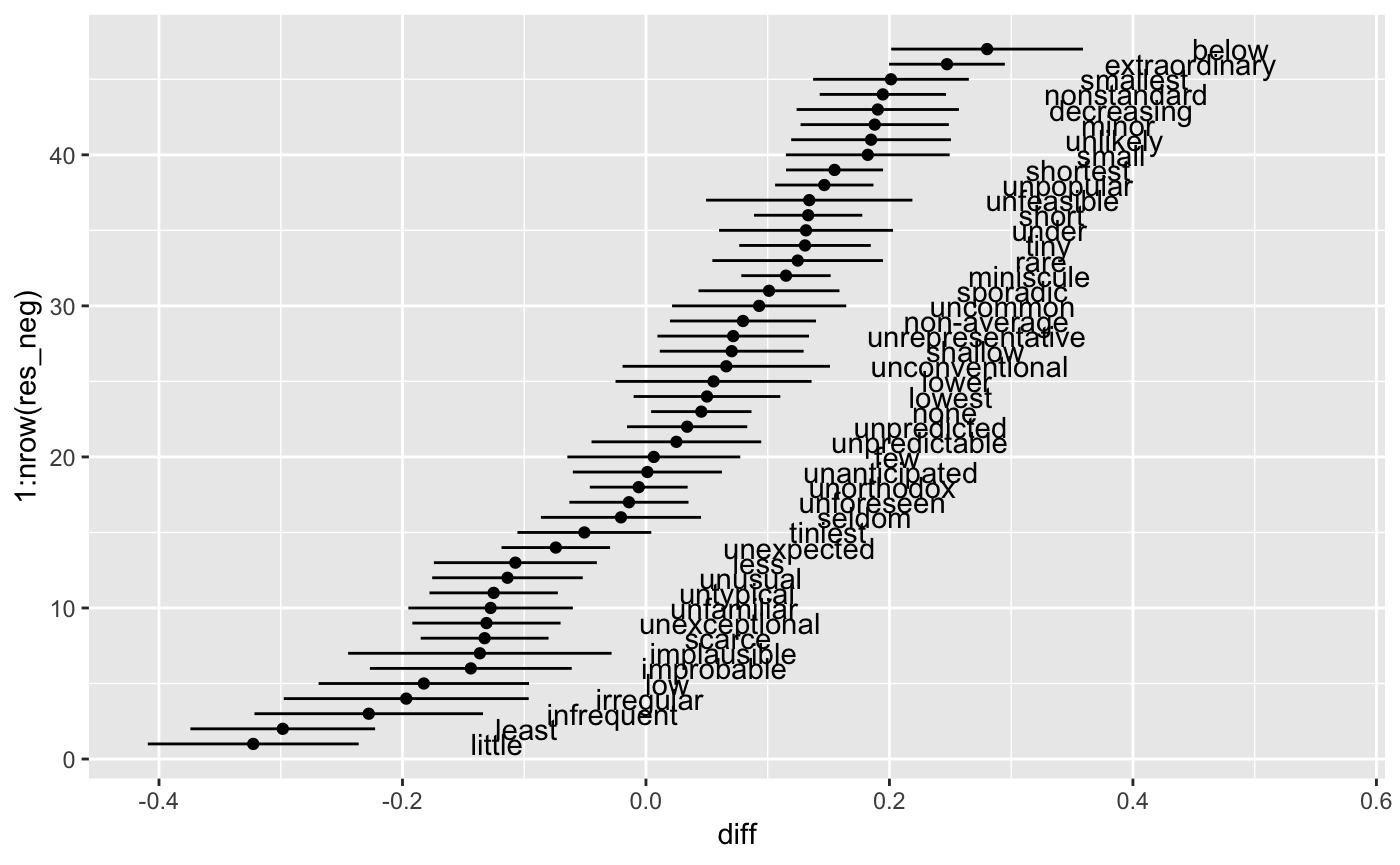
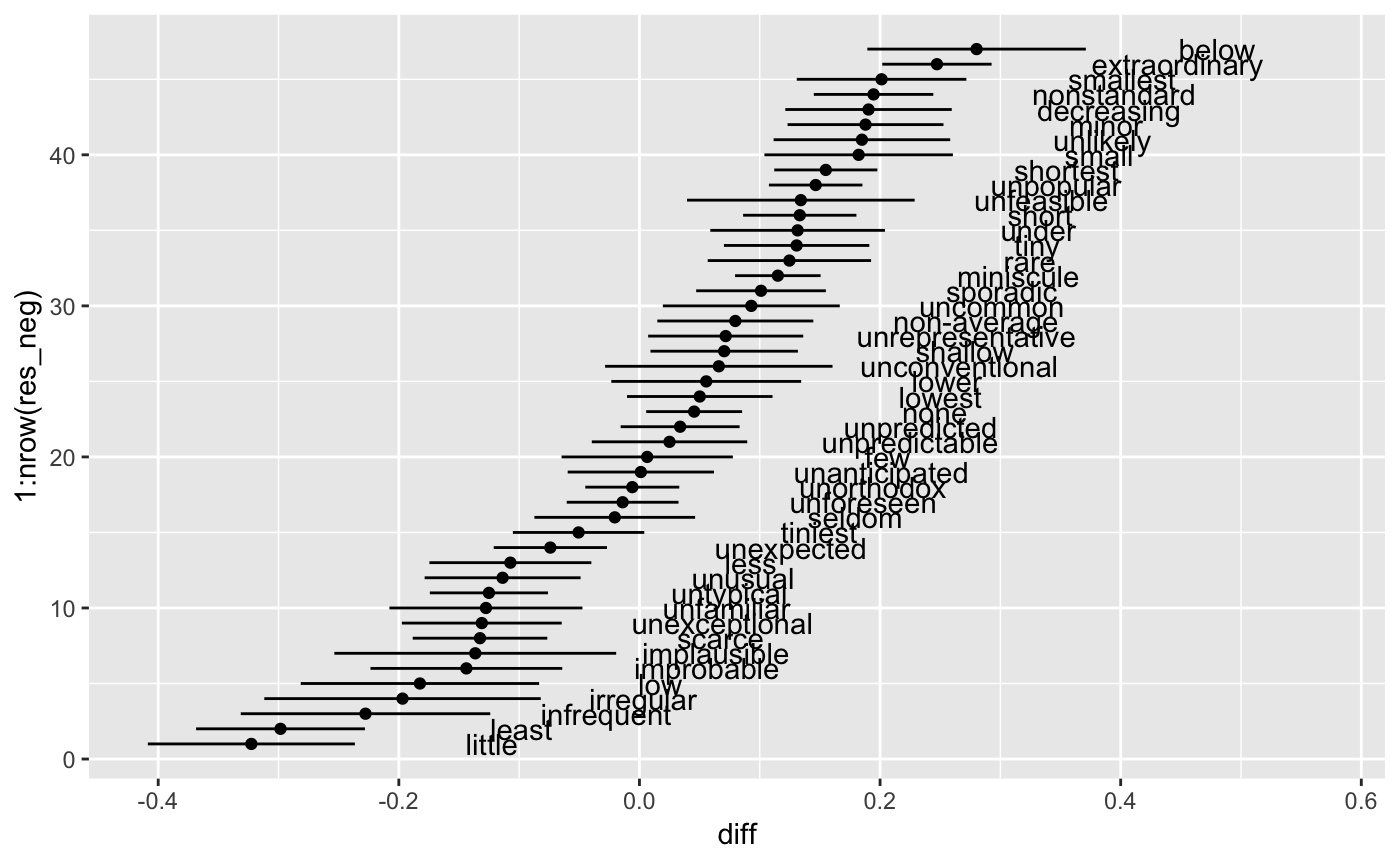
Full citation in.

diff --git a/docs/articles/replication_replication.html b/docs/articles/replication_replication.html
@@ -219,7 +219,7 @@ vecs &lt;-<span class="st"> </span><span class="kw"><a href="../reference/cbn_ge
 <span class="kw"><a href="../reference/weat_perm.html">weat_perm</a></span>(its, vecs, <span class="dt">x_name =</span> <span class="st">"Math"</span>, <span class="dt">y_name =</span> <span class="st">"Arts"</span>,
            <span class="dt">a_name =</span> <span class="st">"MaleTerms"</span>, <span class="dt">b_name =</span> <span class="st">"FemaleTerms"</span>, <span class="dv">1000</span>)
 <span class="co">#&gt;      S_xyab        d p_value</span>
-<span class="co">#&gt; 1 0.1989226 1.055015   0.023</span></code></pre></div>
+<span class="co">#&gt; 1 0.1989226 1.055015   0.011</span></code></pre></div>
 </div>
 <div id="science-vs-arts" class="section level3">
 <h3 class="hasAnchor">
@@ -236,7 +236,7 @@ vecs &lt;-<span class="st"> </span><span class="kw"><a href="../reference/cbn_ge
 <span class="kw"><a href="../reference/weat_perm.html">weat_perm</a></span>(its, vecs, <span class="dt">x_name =</span> <span class="st">"Science"</span>, <span class="dt">y_name =</span> <span class="st">"Arts"</span>, 
            <span class="dt">a_name =</span> <span class="st">"MaleTerms"</span>, <span class="dt">b_name =</span> <span class="st">"FemaleTerms"</span>, <span class="dv">1000</span>)
 <span class="co">#&gt;     S_xyab        d p_value</span>
-<span class="co">#&gt; 1 0.345604 1.237453   0.003</span></code></pre></div>
+<span class="co">#&gt; 1 0.345604 1.237453   0.004</span></code></pre></div>
 </div>
 <div id="mental-vs-physical-disease" class="section level3">
 <h3 class="hasAnchor">
@@ -253,7 +253,7 @@ vecs &lt;-<span class="st"> </span><span class="kw"><a href="../reference/cbn_ge
 <span class="kw"><a href="../reference/weat_perm.html">weat_perm</a></span>(its, vecs, <span class="dt">x_name =</span> <span class="st">"MentalDisease"</span>, <span class="dt">y_name =</span> <span class="st">"PhysicalDisease"</span>, 
           <span class="dt">a_name =</span> <span class="st">"Temporary"</span>, <span class="dt">b_name =</span> <span class="st">"Permanent"</span>, <span class="dv">1000</span>)
 <span class="co">#&gt;      S_xyab        d p_value</span>
-<span class="co">#&gt; 1 0.5051217 1.382755   0.001</span></code></pre></div>
+<span class="co">#&gt; 1 0.5051217 1.382755   0.002</span></code></pre></div>
 </div>
 <div id="mental-vs-physical-disease-1" class="section level3">
 <h3 class="hasAnchor">
@@ -270,7 +270,7 @@ vecs &lt;-<span class="st"> </span><span class="kw"><a href="../reference/cbn_ge
 <span class="kw"><a href="../reference/weat_perm.html">weat_perm</a></span>(its, vecs, <span class="dt">x_name =</span> <span class="st">"MentalDisease"</span>, <span class="dt">y_name =</span> <span class="st">"PhysicalDisease"</span>, 
           <span class="dt">a_name =</span> <span class="st">"Temporary"</span>, <span class="dt">b_name =</span> <span class="st">"Permanent"</span>, <span class="dv">1000</span>)
 <span class="co">#&gt;      S_xyab        d p_value</span>
-<span class="co">#&gt; 1 0.5051217 1.382755   0.005</span></code></pre></div>
+<span class="co">#&gt; 1 0.5051217 1.382755   0.002</span></code></pre></div>
 </div>
 <div id="young-vs-old-peoples-names" class="section level3">
 <h3 class="hasAnchor">
@@ -287,7 +287,7 @@ vecs &lt;-<span class="st"> </span><span class="kw"><a href="../reference/cbn_ge
 <span class="kw"><a href="../reference/weat_perm.html">weat_perm</a></span>(its, vecs, <span class="dt">x_name =</span> <span class="st">"YoungNames"</span>, <span class="dt">y_name =</span> <span class="st">"OldNames"</span>, 
           <span class="dt">a_name =</span> <span class="st">"Pleasant"</span>, <span class="dt">b_name =</span> <span class="st">"Unpleasant"</span>, <span class="dv">1000</span>)
 <span class="co">#&gt;      S_xyab        d p_value</span>
-<span class="co">#&gt; 1 0.3808673 1.212891   0.006</span></code></pre></div>
+<span class="co">#&gt; 1 0.3808673 1.212891   0.008</span></code></pre></div>
 </div>
 </div>
 <div id="wefat-figure-1" class="section level2">

diff --git a/docs/articles/alternative_statistics.html b/docs/articles/alternative_statistics.html
@@ -119,8 +119,8 @@ its_vecs &lt;-<span class="st"> </span><span class="kw"><a href="../reference/cb
                  <span class="dt">a_name =</span> <span class="st">"Pleasant"</span>, <span class="dt">b_name =</span> <span class="st">"Unpleasant"</span>,
                  <span class="dt">se.calc =</span> <span class="st">"quantile"</span>)
 res
-<span class="co">#&gt;        diff       lwr       upr    median</span>
-<span class="co">#&gt; 1 0.1547512 0.1016231 0.1966195 0.1485927</span></code></pre></div>
+<span class="co">#&gt;        diff        lwr       upr    median</span>
+<span class="co">#&gt; 1 0.1547512 0.09904213 0.2164269 0.1460651</span></code></pre></div>
 <p>Apparently flowers are more pleasant than insects.</p>
 </div>
 <div id="replicating-wefat" class="section level2">
@@ -135,12 +135,12 @@ its_vecs &lt;-<span class="st"> </span><span class="kw"><a href="../reference/cb
                   <span class="dt">se.calc =</span> <span class="st">"quantile"</span>)
 <span class="kw">head</span>(res)
 <span class="co">#&gt;        Careers       diff        lwr         upr     median</span>
-<span class="co">#&gt; 1        nurse -0.1766406 -0.2321746 -0.12262488 -0.1699421</span>
-<span class="co">#&gt; 2 receptionist -0.1369632 -0.1771082 -0.08764670 -0.1330653</span>
-<span class="co">#&gt; 3    hygienist -0.1182356 -0.1491636 -0.08004055 -0.1164189</span>
-<span class="co">#&gt; 4    librarian -0.1158335 -0.1422554 -0.07809907 -0.1140293</span>
-<span class="co">#&gt; 5 nutritionist -0.1115838 -0.1562356 -0.05603441 -0.1110424</span>
-<span class="co">#&gt; 6    therapist -0.1042064 -0.1446527 -0.05594589 -0.1033222</span></code></pre></div>
+<span class="co">#&gt; 1        nurse -0.1766406 -0.2362785 -0.10485537 -0.1714612</span>
+<span class="co">#&gt; 2 receptionist -0.1369632 -0.1807432 -0.08080623 -0.1328347</span>
+<span class="co">#&gt; 3    hygienist -0.1182356 -0.1511249 -0.07728667 -0.1147665</span>
+<span class="co">#&gt; 4    librarian -0.1158335 -0.1445471 -0.07736824 -0.1137756</span>
+<span class="co">#&gt; 5 nutritionist -0.1115838 -0.1564542 -0.05811263 -0.1080202</span>
+<span class="co">#&gt; 6    therapist -0.1042064 -0.1439760 -0.05840242 -0.1008730</span></code></pre></div>
 <p>This is a bit hard to interpret, so we’ll make a picture</p>
 <div class="sourceCode"><pre class="sourceCode r"><code class="sourceCode r"><span class="kw"><a href="http://www.rdocumentation.org/packages/ggplot2/topics/ggplot">ggplot</a></span>(res, <span class="kw"><a href="http://www.rdocumentation.org/packages/ggplot2/topics/aes">aes</a></span>(<span class="dt">x =</span> median, <span class="dt">y =</span> <span class="dv">1</span><span class="op">:</span><span class="kw">nrow</span>(res))) <span class="op">+</span>
 <span class="st">  </span><span class="kw"><a href="http://www.rdocumentation.org/packages/ggplot2/topics/geom_point">geom_point</a></span>(<span class="dt">col =</span> <span class="st">"grey"</span>) <span class="op">+</span>

diff --git a/docs/index.html b/docs/index.html
@@ -84,7 +84,7 @@
     <div id="cbn" class="section level1">
 <div class="page-header"><h1 class="hasAnchor">
 <a href="#cbn" class="anchor"></a>CBN</h1></div>
-<p>Tools for replicating and extending <a href="http://science.sciencemag.org/content/356/6334/183">Caliskan, Bryson, and Narayanan</a> (2017) ‘Semantics derived automatically from language corpora contain human-like biases’</p>
+<p>Tools for replicating and extending <a href="http://science.sciencemag.org/content/356/6334/183">Caliskan, Bryson, and Narayanan</a> (2017) ‘Semantics derived automatically from language corpora contain human-like biases’ <em>Science</em> Vol. 356, Issue 6334, pp. 183-186.</p>
 <p><a href="https://travis-ci.org/conjugateprior/cbn"><img src="https://travis-ci.org/conjugateprior/cbn.svg?branch=master" alt="Travis-CI Build Status"></a></p>
 </div>
   </div>

diff --git a/README.md b/README.md
@@ -2,6 +2,6 @@
 
 Tools for replicating and extending [Caliskan, Bryson, and Narayanan](http://science.sciencemag.org/content/356/6334/183) (2017) 
 'Semantics derived automatically from language corpora contain human-like 
-biases'
+biases' *Science* Vol. 356, Issue 6334, pp. 183-186.
 
-[![Travis-CI Build Status](https://travis-ci.org/conjugateprior/cbn.svg?branch=master)](https://travis-ci.org/conjugateprior/cbn)
+[![Travis-CI Build Status](https://travis-ci.org/conjugateprior/cbn.svg?branch=master)](https://travis-ci.org/conjugateprior/cbn) 
